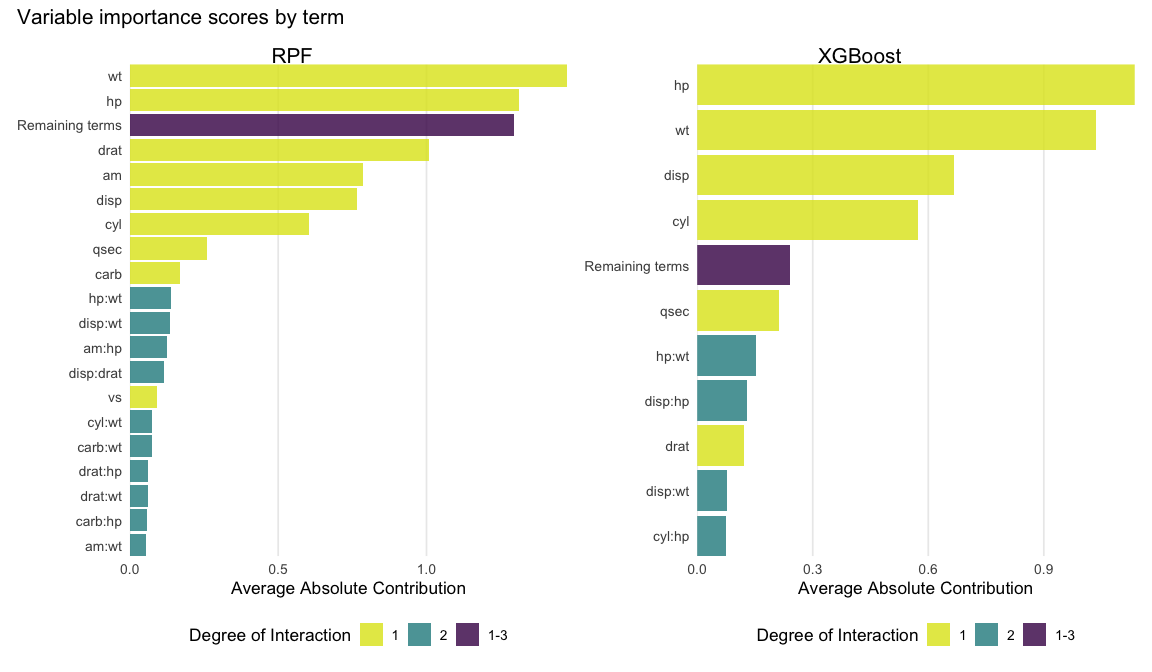
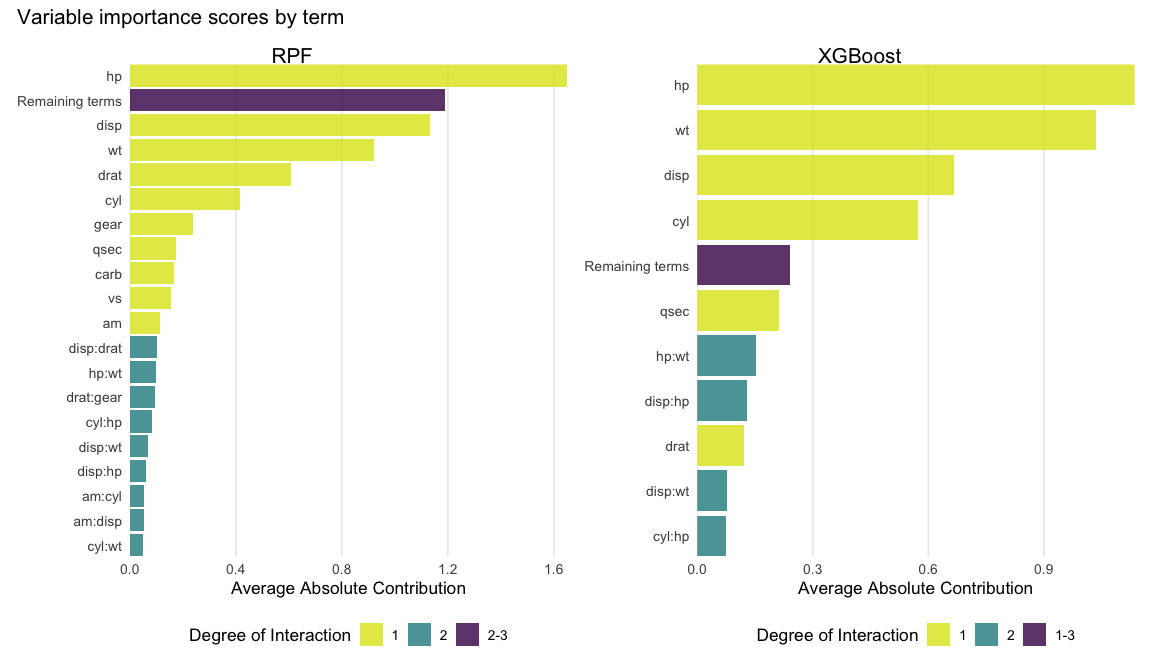
chore: update README, add r-universe badge + instructions

Changed region(s): [[0.0, 0.0938, 0.4688, 0.7812], [0.0625, 0.2812, 0.125, 0.3438], [0.125, 0.7188, 0.1562, 0.75]]

diff --git a/README.md b/README.md
@@ -7,7 +7,9 @@
 
 [![R-CMD-check](https://github.com/PlantedML/glex/actions/workflows/R-CMD-check.yaml/badge.svg)](https://github.com/PlantedML/glex/actions/workflows/R-CMD-check.yaml)
 [![Codecov test
-coverage](https://codecov.io/gh/PlantedML/glex/branch/master/graph/badge.svg)](https://app.codecov.io/gh/PlantedML/glex?branch=master)
+coverage](https://codecov.io/gh/PlantedML/glex/branch/master/graph/badge.svg)](https://app.codecov.io/gh/PlantedML/glex?branch=main)
+[![glex status
+badge](https://plantedml.r-universe.dev/badges/glex)](https://plantedml.r-universe.dev/glex)
 <!-- badges: end -->
 
 Global explanations for tree-based models by decomposing regression or  
@@ -32,6 +34,12 @@ You can install the development version of glex from
 remotes::install_github("PlantedML/glex")
 ```
 
+or from [r-universe](https://plantedml.r-universe.dev/packages) with
+
+``` r
+install.packages("glex", repos = "https://plantedml.r-universe.dev")
+```
+
 ## What’s Included
 
 Currently `glex` works with
@@ -42,8 +50,8 @@ models, so we’ll start by fitting a model with one of each:
 ``` r
 # Install xgboost from CRAN
 install.packages("xgboost")
-# ... and randomPlantedForest from GitHub
-remotes::install_github("PlantedML/randomPlantedForest")
+# ... and randomPlantedForest from r-universe
+install.packages("randomPlantedForest", repos = "https://plantedml.r-universe.dev")
 ```
 
 ``` r
@@ -115,12 +123,12 @@ cbind(pred_xgb, sum_m_xgb, sum_shap_xgb)
 # For RPF
 cbind(pred_rpf, sum_m_rpf)
 #>      pred_rpf sum_m_rpf
-#> [1,] 29.69958  29.69958
-#> [2,] 25.24842  25.24842
-#> [3,] 19.35783  19.35783
-#> [4,] 20.75434  20.75434
-#> [5,] 15.95185  15.95185
-#> [6,] 24.86277  24.86277
+#> [1,] 28.51040  28.51040
+#> [2,] 26.00074  26.00074
+#> [3,] 17.35199  17.35199
+#> [4,] 19.57216  19.57216
+#> [5,] 14.98252  14.98252
+#> [6,] 23.90269  23.90269
 ```
 
 ### Variable Importances
@@ -136,11 +144,11 @@ vi_xgb <- glex_vi(glex_xgb)
 vi_rpf[1:5, c("degree", "term", "m")]
 #>    degree   term         m
 #>     <int> <char>     <num>
-#> 1:      1     wt 1.4747963
-#> 2:      1     hp 1.3103943
-#> 3:      1   drat 1.0086698
-#> 4:      1     am 0.7842427
-#> 5:      1   disp 0.7641779
+#> 1:      1     hp 1.6508213
+#> 2:      1   disp 1.1314800
+#> 3:      1     wt 0.9222168
+#> 4:      1   drat 0.6066751
+#> 5:      1    cyl 0.4174009
 vi_xgb[1:5, c("degree", "term", "m")]
 #>    degree   term         m
 #>     <int> <char>     <num>
